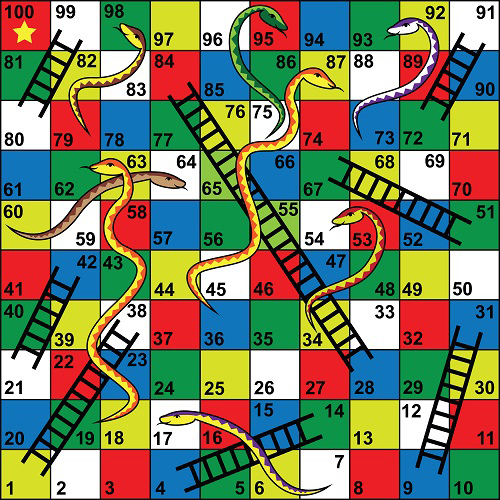
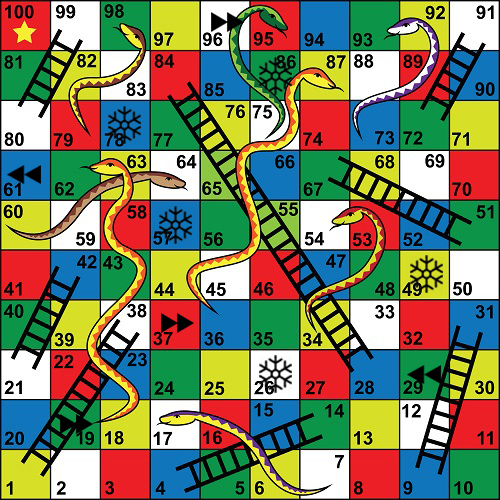
add freeze and backward square on board pic

diff --git a/src/game/Game.java b/src/game/Game.java
@@ -44,8 +44,8 @@ public class Game extends Observable{
 				{ 80, 19 } };
 		int snakes[][] = { { 17, -10 }, { 54, -20 }, { 62, -44 }, { 64, -4 }, { 87, -61 }, { 92, -19 }, { 95, -20 },
 				{ 98, -19 } };
-		int freezes[] = { 26, 50, 59, 78, 85 };
-		int backwards[] = { 19, 29, 35, 61, 96 };
+		int freezes[] = { 26, 49, 57, 78, 86 };
+		int backwards[] = { 19, 29, 37, 61, 96 };
 
 		for (int[] ladder : ladders) {
 			board.createSpecialSquares("Ladder", ladder[0], ladder[1]);
